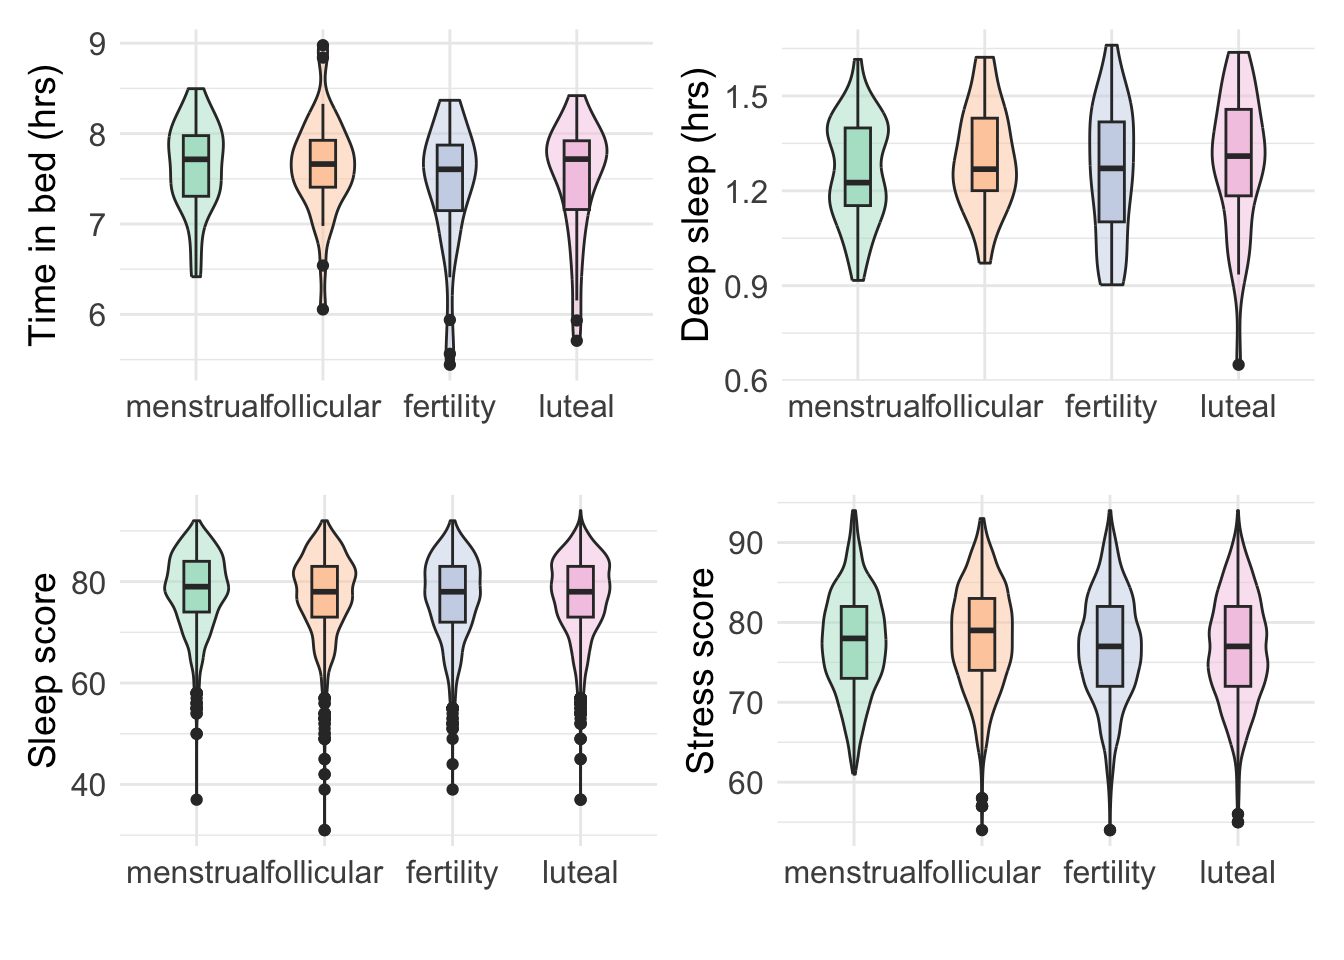
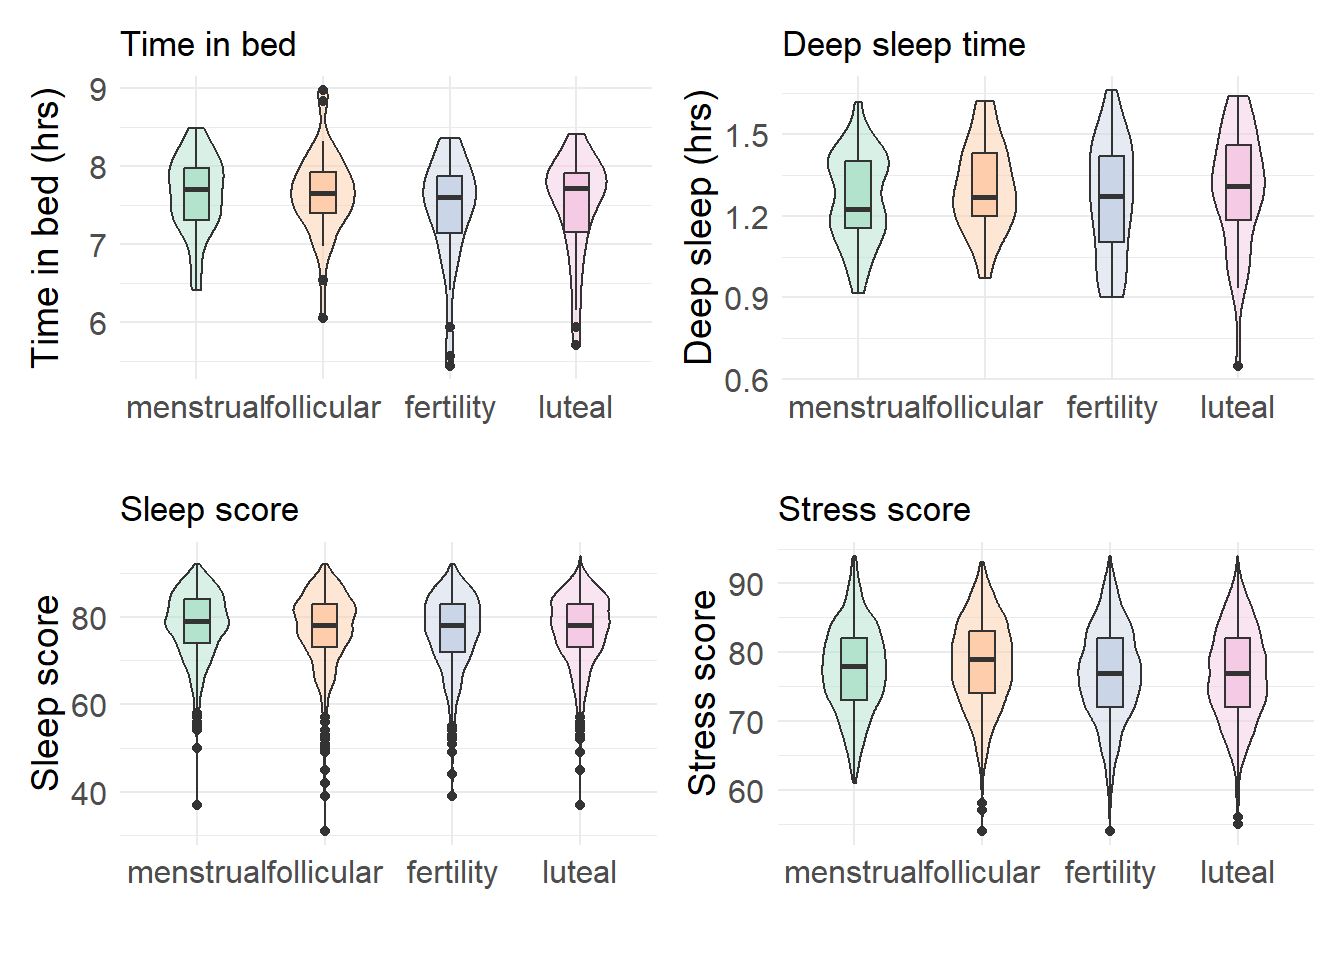
adding the figure titles

diff --git a/sleep_stress_final.html b/sleep_stress_final.html
@@ -427,6 +427,7 @@ participants have better sleep length, 7-8 hours.</p>
   geom_boxplot()+
   facet_grid(study_interval ~.) +
   labs(
+    title = &quot;Time in bed variation&quot;,
     x = &quot;Participant&quot;,
     y = &quot;Average time in bed (hours)&quot;
   ) </code></pre>
@@ -474,6 +475,7 @@ timeinbed_plot =
   geom_violin(alpha = 0.5, width = 0.5)+
   geom_boxplot(width = 0.2)+
   labs(
+  title = &quot;Time in bed&quot;,
     x = &quot; &quot;,
     y = &quot;Time in bed (hrs)&quot;
   ) +
@@ -490,6 +492,7 @@ deep_sleep_plot =
   geom_violin(alpha = 0.5, width = 0.5)+
   geom_boxplot(width = 0.2)+
   labs(
+    title = &quot;Deep sleep time&quot;,
     x = &quot; &quot;,
     y = &quot;Deep sleep (hrs)&quot;
   ) +
@@ -502,6 +505,7 @@ sleep_score_boxplot =
  geom_violin(alpha = 0.5, width = 0.5)+
   geom_boxplot(width = 0.2)+
   labs(
+    title = &quot;Sleep score&quot;,
     x = &quot; &quot;,
     y = &quot;Sleep score&quot;
   ) +
@@ -515,6 +519,7 @@ stress_score_boxplot =
   geom_violin(alpha = 0.5, width = 0.5)+
   geom_boxplot(width = 0.2)+
   labs(
+    title = &quot;Stress score&quot;,
     x = &quot; &quot;,
     y = &quot;Stress score&quot;
   ) +
@@ -558,6 +563,7 @@ plot_1 =
     geom_point(size = 3) +
     labs(color = &quot;Metric&quot;, y = &quot;Mean Score&quot;, x = &quot;Phase&quot;) +
     labs(
+    title = &quot;Sleep and stress&quot;,
     x = &quot;Menstrual Cycle Phase&quot;,
     y = &quot;Score&quot;
   ) +
@@ -590,6 +596,7 @@ plot_2  =
     geom_point(size = 3) +
     labs(color = &quot;Metric&quot;, y = &quot;level&quot;, x = &quot;Phase&quot;) +
     labs(
+    title = &quot;Estrogen and LH&quot;,
     x = &quot;Menstrual Cycle Phase&quot;,
     y = &quot;Level&quot;
   ) +
@@ -620,6 +627,7 @@ plot_3 =
     geom_point(size = 3) +
     labs(color = &quot;Metric&quot;, y = &quot;level&quot;, x = &quot;Phase&quot;) +
     labs(
+    title = &quot;Time in bed and deep sleep&quot;,
     x = &quot;Menstrual Cycle Phase&quot;,
     y = &quot;Level&quot;
   ) +
